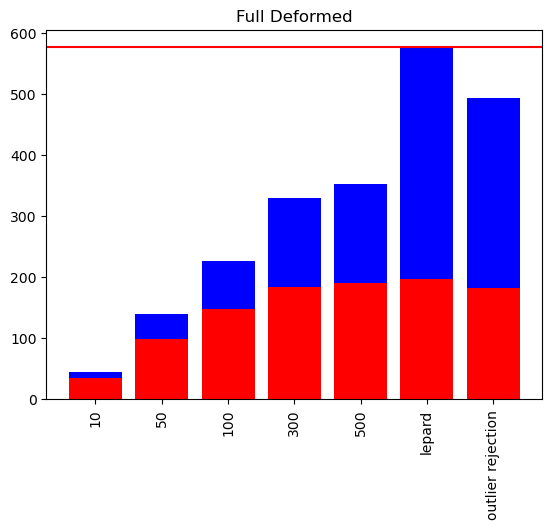
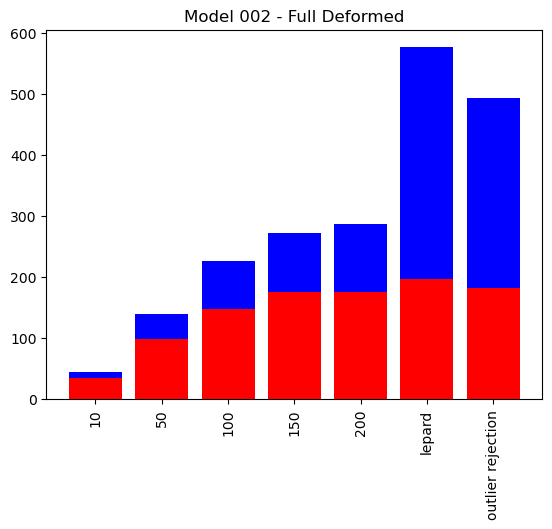
trying fcgf partial deformed on partial deformed data

diff --git a/Testing/custom_filtering/aggregate_data_custom_filtering_true_correspondence_ratio.py b/Testing/custom_filtering/aggregate_data_custom_filtering_true_correspondence_ratio.py
@@ -16,12 +16,11 @@ weights = {
     #    'partial_deformed' : '0.000001'
     }
 }
-# model_numbers = ['002', '042', '085', '126', '167', '207']
-model_numbers = ['002']
+model_numbers = ['002', '042', '085', '126', '167', '207']
 preprocessing = 'mutual'
 max_ldmks = 'None'
 
-nc = [10, 50, 100, 300, 500]
+nc = [10, 50, 100, 150, 200]
 
 confidence = '1e-06'
 # adm = [1.0, 2.0, 3.0, 4.0, 5.0]
@@ -200,8 +199,6 @@ plt.ylim(0, 1)
 plt.savefig('Testing/custom_filtering/' + data_type.replace(' ', '_') + '_gt_ratio_graph_nc_' + str(nc[0]) + '_iot_' + str(iot[0]) + '_sampling_' + sampling + '_varying_adm.png', bbox_inches='tight')
 '''
 
-print(final_matrices)
-
 for data_type in data_types:
 
     modified_nc = [str(nc_v) for nc_v in nc]
@@ -236,22 +233,20 @@ for data_type in data_types:
                 total_data.append(final_matrices[feature_extractor][training_data][model_number][data_type]['outlier']['total'])
 
                 plt.clf()
-                plt.title(data_type)
+                plt.title('Model ' + model_number + ' - ' + data_type)
                 plt.bar(modified_nc_pos, true_data, color='r')
                 plt.bar(modified_nc_pos, total_data, bottom=true_data, color='b')
                 plt.xticks(modified_nc_pos, modified_nc, rotation=90)
-                plt.axhline(y = final_matrices[feature_extractor][training_data][model_number][data_type]['n_distinct'], color = 'r', linestyle = '-')
+                # plt.axhline(y = final_matrices[feature_extractor][training_data][model_number][data_type]['n_distinct'], color = 'r', linestyle = '-')
                 plt.savefig('Testing/custom_filtering/' + data_type.replace(' ', '_') + '_pre_' + preprocessing + '_max_ldmks_' + max_ldmks + '_c_' + confidence + '_adm_' + str(adm[0]) + '_iot_' + str(iot[0]) + '_s_' + sampling + '_' + feature_extractor + '_td_' + training_data + '_varying_nc_gt_ratio_model_' + model_number + '.png', bbox_inches='tight')
             
     plt.clf()
-    drawn = False
     for feature_extractor in weights:
         for training_data in weights[feature_extractor]:
 
             if 'Full' in data_type and 'partial' in training_data or 'Partial' in data_type and 'full' in training_data:
                 break
             
-            drawn = True
             for model_number in model_numbers:
         
                 rmse = []
@@ -265,12 +260,11 @@ for data_type in data_types:
                 rmse.append(final_matrices[feature_extractor][training_data][model_number][data_type]['lepard']['rmse'])
                 rmse.append(final_matrices[feature_extractor][training_data][model_number][data_type]['outlier']['rmse'])
 
-                plt.plot(modified_nc_pos, rmse, label = model_number + ' - ' + feature_extractor + ' - ' + training_data)
+                plt.plot(modified_nc_pos, rmse, label = model_number)
 
-    if drawn is True:
-        plt.title(data_type)
-        plt.legend(loc ="upper right")
-        plt.xticks(modified_nc_pos, modified_nc, rotation=90)
-        plt.savefig('Testing/custom_filtering/' + data_type.replace(' ', '_') + '_pre_' + preprocessing + '_max_ldmks_' + max_ldmks + '_c_' + confidence + '_adm_' + str(adm[0]) + '_iot_' + str(iot[0]) + '_s_' + sampling + '_varying_nc_rmse.png', bbox_inches='tight')
+            plt.title(data_type)
+            plt.legend(loc ="upper right")
+            plt.xticks(modified_nc_pos, modified_nc, rotation=90)
+            plt.savefig('Testing/custom_filtering/' + data_type.replace(' ', '_') + '_pre_' + preprocessing + '_max_ldmks_' + max_ldmks + '_c_' + confidence + '_adm_' + str(adm[0]) + '_iot_' + str(iot[0]) + '_s_' + sampling + '_' + feature_extractor + '_td_' + training_data + '_varying_nc_rmse.png', bbox_inches='tight')
             
         
